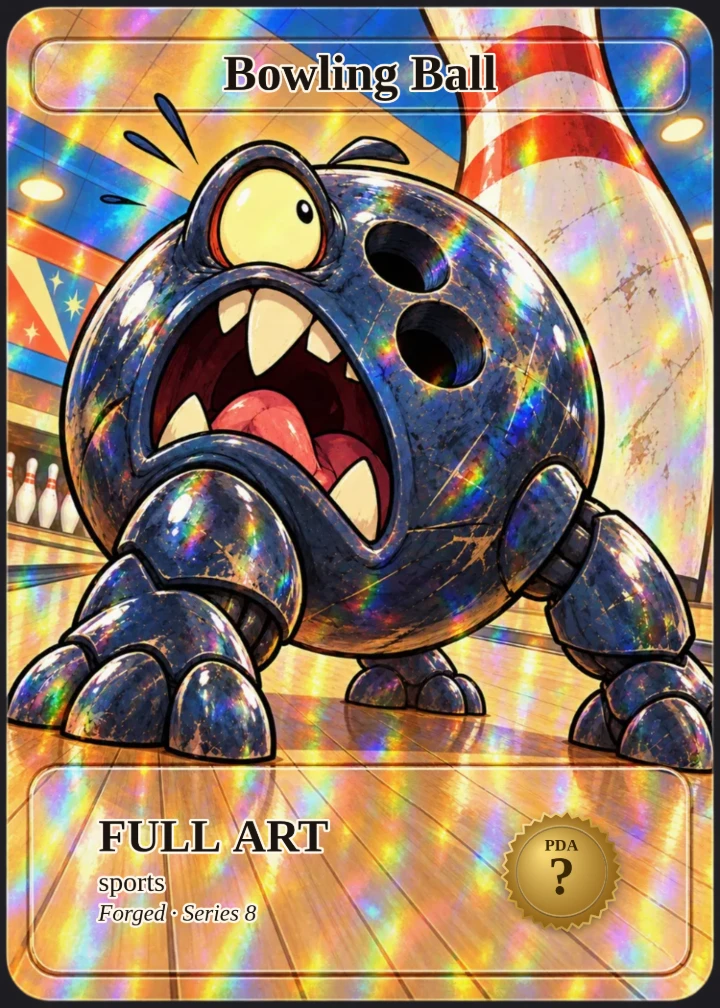
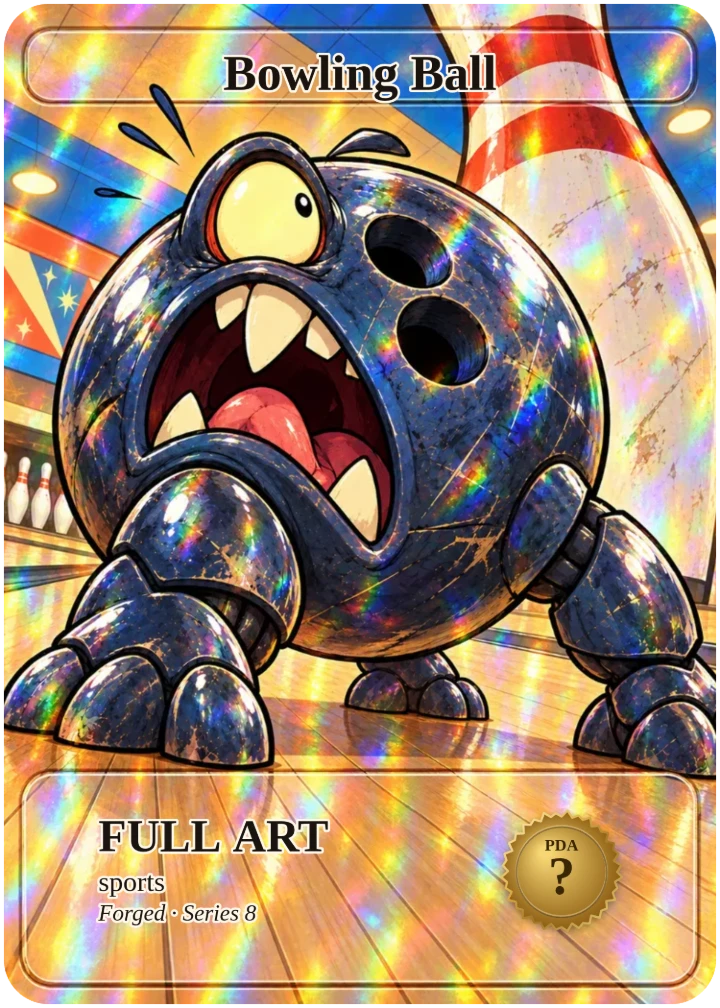
Full Art: trim the art's see-through edge, make it solid, clip to the card shape with no dark backing (no more black border)
Claude-Session: https://claude.ai/code/session_01LEzX9WUx8sWcSwwRyLeaEz

diff --git a/studio/src/render.ts b/studio/src/render.ts
@@ -191,10 +191,42 @@ function drawPsa(ctx: Ctx2D, value: string, psa: PsaBox, ringColor: string | nul
   drawText(ctx, value, { box: { x: cx - 85 * k, y: cy - 42 * k, w: 170 * k, h: 120 * k }, style: { ...st, bold: true, size: 112 * k, minSize: 24 }, visible: true })
 }
 
+/** The card's own shape (the same rounded outline clean_frames.py gives every frame): full-card art is clipped to it. */
+const CARD_INSET = 8
+const CARD_RADIUS = 93
+
+/** Full-card art (Full Art) is the whole card, so it must be solid to the edge: trims any see-through margin round the
+ *  art (its rounded corners, a soft edge) and makes every pixel fully opaque. Otherwise the backing shows through as a
+ *  dark border and the whole card looks a shade darker. */
+export async function solidFullCardArt(src: ImageBitmap): Promise<ImageBitmap> {
+  const w = src.width
+  const h = src.height
+  const c = new OffscreenCanvas(w, h)
+  const g = c.getContext('2d')
+  if (!g) return src
+  g.drawImage(src, 0, 0)
+  const d = g.getImageData(0, 0, w, h)
+  const px = d.data
+  // the solid part: rows and columns that are mostly opaque (a few stray see-through pixels don't count)
+  const solidRow = (y: number) => { let n = 0; for (let x = 0; x < w; x++) if (px[(y * w + x) * 4 + 3] >= 128) n++; return n > w * 0.5 }
+  const solidCol = (x: number) => { let n = 0; for (let y = 0; y < h; y++) if (px[(y * w + x) * 4 + 3] >= 128) n++; return n > h * 0.5 }
+  let y0 = 0, y1 = h - 1, x0 = 0, x1 = w - 1
+  while (y0 < y1 && !solidRow(y0)) y0++
+  while (y1 > y0 && !solidRow(y1)) y1--
+  while (x0 < x1 && !solidCol(x0)) x0++
+  while (x1 > x0 && !solidCol(x1)) x1--
+  // a couple of pixels more, past the soft edge
+  x0 = Math.min(x0 + 2, x1); y0 = Math.min(y0 + 2, y1); x1 = Math.max(x1 - 2, x0); y1 = Math.max(y1 - 2, y0)
+  for (let i = 3; i < px.length; i += 4) px[i] = 255
+  g.putImageData(d, 0, 0)
+  return createImageBitmap(c, x0, y0, x1 - x0 + 1, y1 - y0 + 1)
+}
+
 function drawArt(ctx: Ctx2D, art: ImgSrc, layout: Layout): void {
   const a = layout.art
   const { w: iw, h: ih } = dims(art)
   if (!iw || !ih) return
+  const fullCard = a.box.x === 0 && a.box.y === 0 && a.box.w === CARD_W && a.box.h === CARD_H
   const fit = a.fit === 'cover' ? Math.max(a.box.w / iw, a.box.h / ih) : Math.min(a.box.w / iw, a.box.h / ih)
   const s = fit * (a.scale > 0 ? a.scale : 1)
   const dw = iw * s
@@ -203,9 +235,11 @@ function drawArt(ctx: Ctx2D, art: ImgSrc, layout: Layout): void {
   const dy = a.box.y + (a.box.h - dh) / 2 + a.offsetY
   ctx.save()
   ctx.beginPath()
-  ctx.rect(a.box.x, a.box.y, a.box.w, a.box.h)
+  // full-card art: the card's rounded shape and no backing colour (there is nothing behind the card to fill)
+  if (fullCard) ctx.roundRect(CARD_INSET, CARD_INSET, CARD_W - 2 * CARD_INSET, CARD_H - 2 * CARD_INSET, CARD_RADIUS)
+  else ctx.rect(a.box.x, a.box.y, a.box.w, a.box.h)
   ctx.clip()
-  if (a.background) {
+  if (a.background && !fullCard) {
     ctx.fillStyle = a.background
     ctx.fillRect(a.box.x, a.box.y, a.box.w, a.box.h)
   }

diff --git a/studio/src/renderCore.ts b/studio/src/renderCore.ts
@@ -1,8 +1,8 @@
 /** Shared by the build worker and the main-thread fallback: decodes asset blobs lazily (small LRU of bitmaps, art
  *  downscaled to what the art window needs) and renders cards to encoded Blobs via render.ts. */
 
-import { cardView, renderCardBlob, type CardAssets, type CardFace } from './render'
-import { frameId } from './frames'
+import { cardView, renderCardBlob, solidFullCardArt, type CardAssets, type CardFace } from './render'
+import { FULL_CARD_ART_SETS, frameId } from './frames'
 import { CARD_H, CARD_W, wearLookOf, type WearLook } from './rules'
 import type { Layout, OutputFormat, Variant } from './types'
 
@@ -68,7 +68,12 @@ export class CardRenderer {
     const blob = this.bundle.art[charId]?.[m]?.[v] ?? this.bundle.art[charId]?.[m]?.normal
     return this.bitmap(`art:${charId}:${m}:${v}`, async () => {
       if (!blob) return null
-      const full = await createImageBitmap(blob)
+      let full = await createImageBitmap(blob)
+      if (FULL_CARD_ART_SETS.includes(m)) {
+        const solid = await solidFullCardArt(full)
+        if (solid !== full) full.close()
+        full = solid
+      }
       // Downscale big art to what the art window needs (keeps memory sane with many characters).
       const a = (this.bundle.layouts[m] ?? Object.values(this.bundle.layouts)[0]).art
       const fit = a.fit === 'cover' ? Math.max(a.box.w / full.width, a.box.h / full.height) : Math.min(a.box.w / full.width, a.box.h / full.height)
@@ -76,8 +81,9 @@ export class CardRenderer {
       if (need >= 0.9) return full
       const w = Math.max(1, Math.round(full.width * need))
       const h = Math.max(1, Math.round(full.height * need))
+      const small = await createImageBitmap(full, { resizeWidth: w, resizeHeight: h, resizeQuality: 'high' })
       full.close()
-      return createImageBitmap(blob, { resizeWidth: w, resizeHeight: h, resizeQuality: 'high' })
+      return small
     })
   }
 
